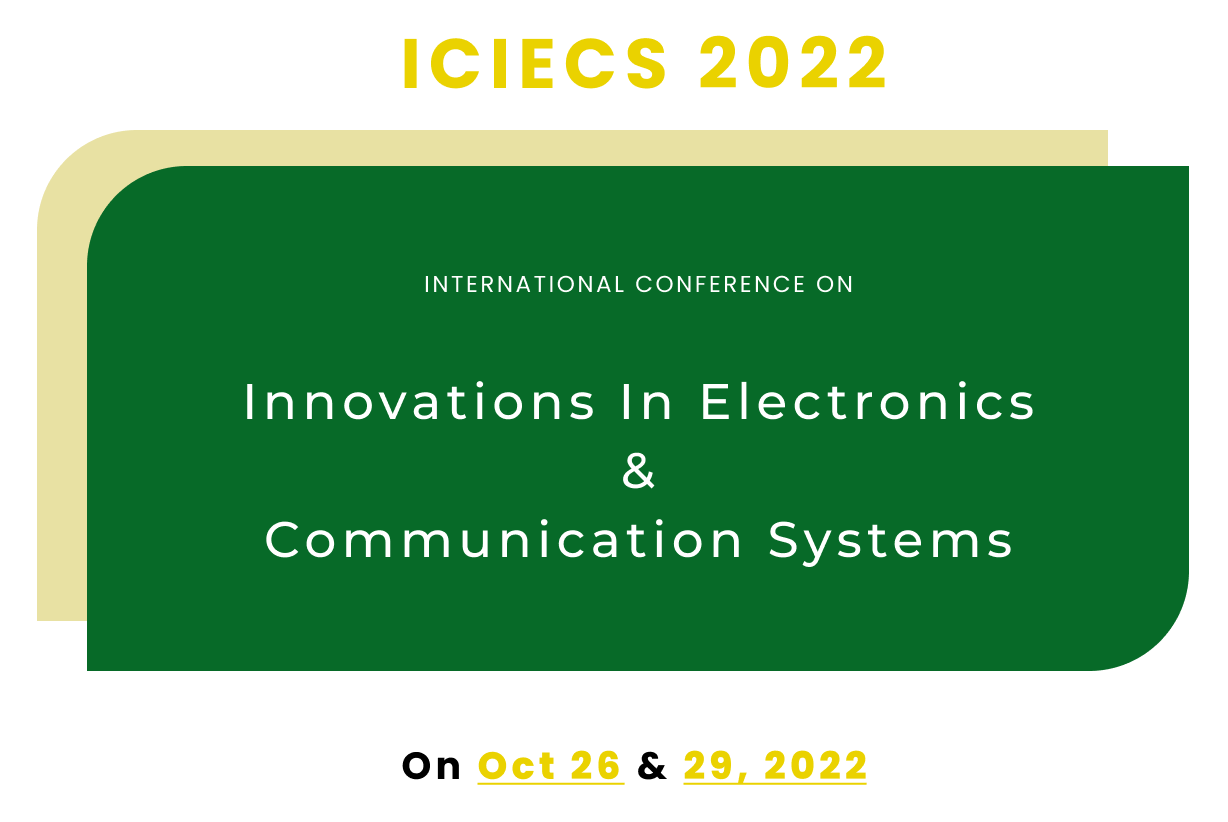
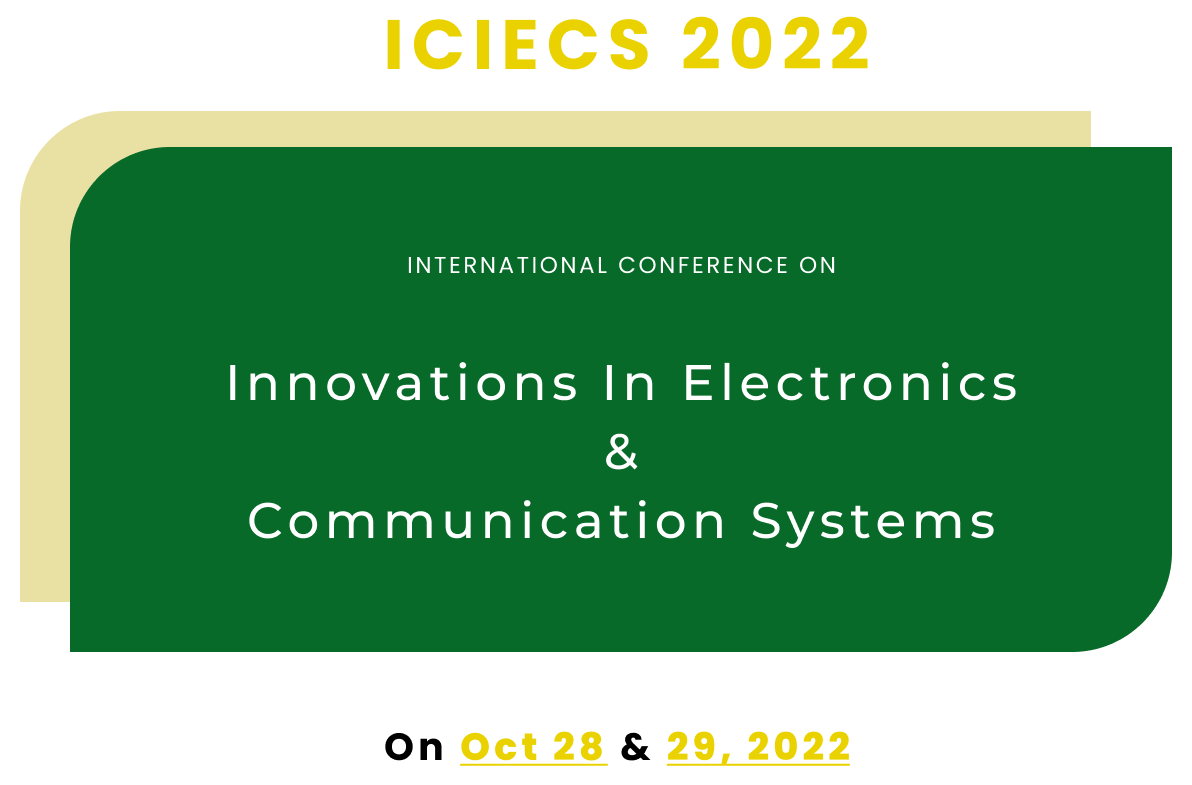
date correction & ol->ul

diff --git a/org-committee.html b/org-committee.html
@@ -88,7 +88,7 @@
       <div class="sub-committee-container">
         <div class="sub-committee">
           <h2>Chief Patrons</h2>
-          <ol>
+          <ul>
             <li>Thiru R.S. Munirathinam, Founder Chairman</li>
             <li>Thiru R. Jothi Naidu, Director</li>
             <li>Thiru R.M. Kishore BE, MBA(UK), Vice Chairman</li>
@@ -98,69 +98,69 @@
             <li>Dr. M .S. Palanichamy, Advisor</li>
             <li>Shri. T. Pitchandi, IAS (Rtd.), Advisor</li>
             <li>Shri. V.Manoharan, Advisor</li>
-          </ol>
+          </ul>
         </div>
 
         <div class="sub-committee">
           <h2>Patrons</h2>
-          <ol>
+          <ul>
             <li>Dr. K.Ramar, M.E., Ph.D., FIE.,Principal</li>
             <li>Dr. K. Sivaram, M.Tech., Ph.D.,Dean Research</li>
-          </ol>
+          </ul>
         </div>
 
         <div class="sub-committee">
           <h2>Conference Chairs</h2>
-          <ol>
+          <ul>
             <li>Dr. N.Gangatharan, Professor & Head of Department</li>
             <li>Dr. T. M. Inbamalar, Professor</li>
             <li>Ms.Chettiyar Vani Vivekanand, Associate Professor</li>
-          </ol>
+          </ul>
         </div>
 
         <div class="sub-committee">
           <h2>Conference Co-Chairs</h2>
-          <ol>
+          <ul>
             <li>Dr. C.Arun, Professor</li>
             <li>Dr. K.G.Shanthi, Professor</li>
             <li>Dr. N.G.Praveena , Associate Professor</li>
             <li>Dr. S.Muthumanickam , Associate Professor</li>
             <li>Dr. K.Kannan , Associate Professor</li>
             <li>Dr. P.Josephin Shermila , Associate Professor</li>
-          </ol>
+          </ul>
         </div>
 
         <div class="sub-committee">
           <h2>Conference Coordinators</h2>
-          <ol>
+          <ul>
             <li>Ms. V.Kannagi, Associate Professor</li>
             <li>Ms. A.Jasmine Vijithra, Assistant Professor</li>
             <li>Ms. G.Bharatha Sreeja, Assistant Professor</li>
             <li>Ms. P.Arthi Devarani, Assistant Professor</li>
-          </ol>
+          </ul>
         </div>
 
         <div class="sub-committee">
           <h2>Registration Committee</h2>
-          <ol>
+          <ul>
             <li>Ms. K.Dhivya , Assistant Professor</li>
             <li>Ms. K.Sangeethalakshmi, Assistant Professor</li>
             <li>Ms. P.Sivalakshmi , Assistant Professor</li>
             <li>Ms. G.Sandhiya , Assistant Professor</li>
-          </ol>
+          </ul>
         </div>
 
         <div class="sub-committee">
           <h2>Programme Schedule Committee</h2>
-          <ol>
+          <ul>
             <li>Ms. S.Rajalakshmi, Assistant Professor</li>
             <li>Ms. L.Manimegalai, Assistant Professor</li>
-          </ol>
+          </ul>
         </div>
 
         <div class="sub-committee">
           <h2>Session Arrangement Committee</h2>
-          <ol>
+          <ul>
             <li>Ms. S.SeshaVidhya, Associate Professor</li>
             <li>Mr. R.VijayAnandh, Associate Professor</li>
             <li>Mr. P.Sathya Raj, Assistant Professor</li>
@@ -168,34 +168,34 @@
             <li>Mr. Shaik Hedayath Basha, Assistant Professor</li>
             <li>Mr. C.Karthikeyan, Assistant Professor</li>
             <li>Ms. R.Subatra, Assistant Professor</li>
-          </ol>
+          </ul>
         </div>
 
         <div class="sub-committee">
           <h2>Keynote Speech Committee</h2>
-          <ol>
+          <ul>
             <li>Mr. M.Babu, Assistant Professor</li>
             <li>Mr. K.Sivachandar, Assistant Professor</li>
             <li>Mr. J.Gurumuthy, Assistant Professor</li>
-          </ol>
+          </ul>
         </div>
 
         <div class="sub-committee">
           <h2>Publication Committee</h2>
-          <ol>
+          <ul>
             <li>Ms. A.Swetha Reddy, Assistant Professor</li>
             <li>Ms. B.J.Komathi, Assistant Professor</li>
             <li>Ms. C.Nithiya,Assistant Professor</li>
             <li>Ms. Samuda Prathima, Assistant Professor</li>
-          </ol>
+          </ul>
         </div>
 
         <div class="sub-committee">
           <h2>Publicity & Social Media Committee</h2>
-          <ol>
+          <ul>
             <li>Mr. S.Jai Ganesh, Assistant Professor</li>
             <li>Mr. R.Rajagopal, Assistant Professor</li>
-          </ol>
+          </ul>
         </div>
       </div>
     </section>

diff --git a/review-committee.html b/review-committee.html
@@ -88,7 +88,7 @@
         <h1>Review Committee</h1>
         <div class="sub-committee-container">
         <div class="sub-committee">
-            <ol>
+            <ul>
                 <li>Dr. George Ghinea, Professor,  Mulsemedia Computing, Wilfred Brown Building 215, UK</li>
                 <li>Dr. Mohd Azrik Bin Roslan, Profesor Madya, Fakulti Teknologi Kejuruteraan Elektrik, Universiti Malaysia Perlis, KampusPauh Putra, 02600 Arau, Perlis,  Malaysia.</li>
                 <li>Dr. Manimurugan S, Associate Professor and Head in Scientific Research and Consultant Unit, Industrial Innovation & Robotics Center,  Faculty of Computers and Information Technology, University of Tabuk ,  Tabuk City, Kingdom of Saudi Arabia</li>
@@ -158,7 +158,7 @@
                 <li>Dr.J.Rethna Virgil Jeny, Professor, Vignan Institute of Technology and Science, Andhra Pradesh</li>
                 <li>Dr.R.K.Gnanamurthy, Principal, Maha Barathy Engineering College, Salem</li>
                 <li>Dr. S.Murugan,Professor, ECE, Sri Vasavi Engineering college, Tadepalligudem, Andhrapradesh</li>
-            </ol>
+            </ul>
         </div>
         </div>
     </section>

diff --git a/tech-committee.html b/tech-committee.html
@@ -88,7 +88,7 @@
         <h1>Technical Program Committee</h1>
         <div class="sub-committee-container">
         <div class="sub-committee">
-            <ol>
+            <ul>
                 <li>Dr. Xiao-Zhi Gao, School of Computing, University of Eastern Finland, Finland</li>
                 <li>Dr. Bal Virdee, Head of Research Centre for Communications Technology, Metropolitan University, School of Computing and Digital, London</li>
                 <li>Dr. Ahmad Asari Sulaiman, Faculty of Electrical Engg. University Teknologi MARA Shah Alam, Selangor, Malaysia</li>
@@ -108,7 +108,7 @@
                 <li>Dr. K. RajaSekhar, Professor, ECE, BVC Engineering College, Odalarevu, Andhra Pradesh</li>
                 <li>Dr. A. M. Prasad, Professor, ECE, JNTUK Kakinada, Andhra Pradesh</li>
                 <li>Dr. E A.Mary Anita, Professor, CSE, School of Engineering and Technology, Christ University, Bangalore Kengeri Campus, Karnataka.</li>
-            </ol>
+            </ul>
         </div>
         </div>
     </div>

diff --git a/call-for-papers.html b/call-for-papers.html
@@ -85,7 +85,7 @@
         </div>
     </nav>
     <section id="call-for-papers">
-        <h1>Call for Papers</h1>
+        <h1 style="padding-bottom: 20px;">Call for Papers</h1>
         <div class="call-instructions">
             <h2>Instructions on Paper Submission</h2>
             <ul>
